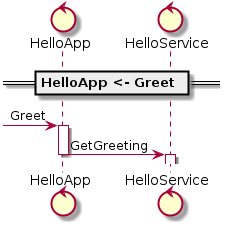
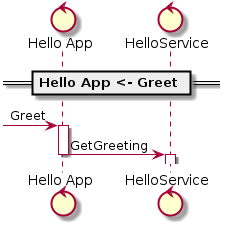
Update HelloApp to Hello App to demo spaces

diff --git a/docs/tutorial.md b/docs/tutorial.md
@@ -11,11 +11,13 @@ In this tutorial, we're going to create a simple Sysl specification (i.e. a `.sy
 
 Sysl specifications appear similar to [YAML](https://en.wikipedia.org/wiki/YAML), with nested blocks of text organised with colons and indentation. However Sysl specifications are not just raw data: each block models a particular concept determined by its level and type.
 
-Let's start with a simple example: modelling a greeting system that will authenticate the user to get their name, and then display a personalised greeting.
+Let's start with a simple example: modelling a greeting system that will authenticate the user to get their name, and then display a personalised greeting. By the end we'll be generating diagrams like this:
+
+![Sequence diagram of the Greeting scenario](../examples/tutorial/out/4_hello_project_sd.png)
 
 ## Applications
 
- Create a new file called ` hello.sysl` with the following content:
+Create a new file called `hello.sysl` with the following content:
 
 ```sysl
 HelloService:
@@ -53,7 +55,7 @@ See [Exporting Sysl](cmd-export.md) for more about outputting Sysl protobufs.
 
 ## Endpoints
 
-`HelloService` is a web service that returns the user's greeting. Services are modelled as a collection of **endpoints**, so we'll add a new `GetGreeting` endpoint below `HelloService:`:
+`HelloService` is a web service that returns the user's greeting. In Sysl, applications are modelled as a collection of **endpoints**, so we'll add a new `GetGreeting` endpoint below `HelloService:`:
 
 ```sysl
 # The fantastic Hello World greeting system.
@@ -69,7 +71,7 @@ A few things are happening here:
 
 `GetGreeting` is the name of the endpoint. It is followed by a comma-separated list of **parameters** in `(` parentheses `)`. In this case, there's a single parameter called `userId`.
 
-The block following the endpoint declaration models its behaviour. We've once again used the placeholder `...` to indicate that we don't have a detailed specification for it yet.
+The block following the endpoint declaration models its **behaviour**. We've once again used the placeholder `...` to indicate that we don't have a detailed specification for it yet.
 
 So far all we've specified is names, so we still can't generate anything of much use. But we're making progress! In the meantime, we can **validate** that the specification is still valid:
 
@@ -77,13 +79,13 @@ So far all we've specified is names, so we still can't generate anything of much
 $ sysl validate hello.sysl
 ```
 
-Validate displays no output if the input is valid.
+`validate` displays no output if the input is valid.
 
 ## Communication
 
-Let's introduce another application so that we can model some communication. The user is going to receive their greeting via a mobile app called `HelloApp`, which will fetch the greeting to display from `HelloService`.
+Let's introduce another application so that we can model some communication. The user is going to receive their greeting via a mobile app called `Hello App` (yes, spaces are okay), which will fetch the greeting to display from `HelloService`.
 
-As mentioned above, Sysl generally models components as "applications with endpoints". A natural interpretation for user-facing applications is that the app is an application, and each screen of the app is an endpoint.
+As mentioned above, Sysl generally models components as "applications with endpoints". A natural interpretation for user-facing applications is that the *app* is an application, and *each screen* (or *task*) within the app is an endpoint.
 
 You can probably guess what happens next:
 
@@ -94,15 +96,15 @@ HelloService:
     GetGreeting(userId):
         ...
 
-HelloApp:
+Hello App:
     Greet:
         HelloService <- GetGreeting
 ```
 
-We've added a new `HelloApp` application with a `Greet` endpoint, and specified its behaviour. The behaviour says that `Greet` does one thing: it sends a request to `HelloService`, invoking the `GetGreeting` endpoint.
+We've added a new `Hello App` application with a `Greet` endpoint, and specified its behaviour. The behaviour says that `Greet` does one thing: it sends a request to `HelloService`, invoking the `GetGreeting` endpoint.
 
 :::note
-At this level of detail, we're not interested in specifically what it does with the result. However Sysl has a special grammar for specifying more detailed behaviour as transformations.
+At this level of detail, we're not interested in specifically what happens to the result of `GetGreeting`. However Sysl has a special grammar for specifying more detailed behaviour as transformations.
 :::
 
 Now that our system has some communication happening, we can generate some useful output. **Diagrams** are the most common representation of Sysl specifications, since they are visual, rich, standard, and easily shared.
@@ -117,7 +119,7 @@ This produces the diagram below:
 
 ![Sequence diagram of the Greet endpoint](../examples/tutorial/out/3_hello_communication_sd.png)
 
-This shows the `GetGreeting` request to `HelloService`, but wait, where is `HelloApp`?
+This shows the `GetGreeting` request to `HelloService`, but wait, where is `Hello App`?
 
 TODO(ladeo): Great question.
 
@@ -143,15 +145,15 @@ HelloService:
     GetGreeting(userId):
         ...
 
-HelloApp:
+Hello App:
     Greet:
         HelloService <- GetGreeting
 
 HelloProject:
     Greeting:
-        HelloApp
+        Hello App
         HelloService
-        HelloApp <- Greet
+        Hello App <- Greet
 ```
 
 Notice that the structure is similar to that of an application: three nested blocks. Indeed, generating a diagram of the whole module will treat `HelloProject` as an application, because there's nothing special about it.
@@ -186,7 +188,5 @@ This is just scratching the surface of what Sysl can do, but hopefully you're st
 
 To learn more about how Sysl can support you in your role, take a deeper dive in the following guides:
 
-* [Sysl for Business Analysts](guide-ba.md)
-* [Sysl for Developers](guide-dev.md)
-* [Sysl for System Architects](guide-arch.md)
-* [Sysl for Software Testers](guide-test.md)
+* [Sysl for Developers](examples-dev.md)
+* [Sysl for Non-Developers](examples-nondev.md)
